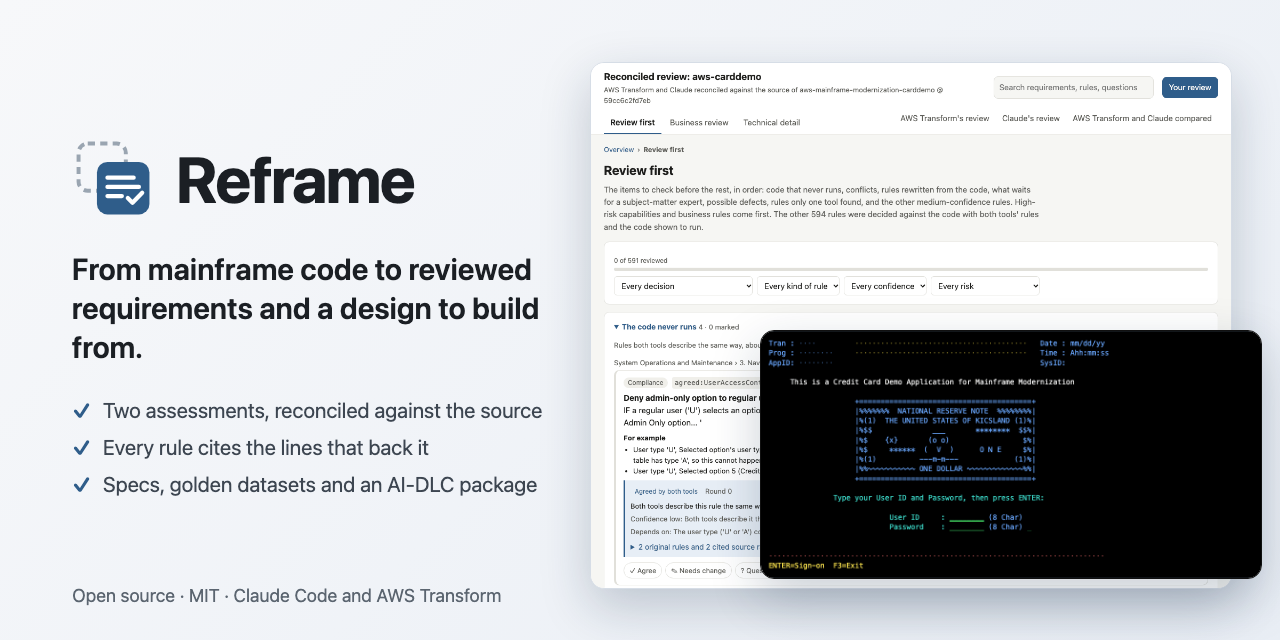
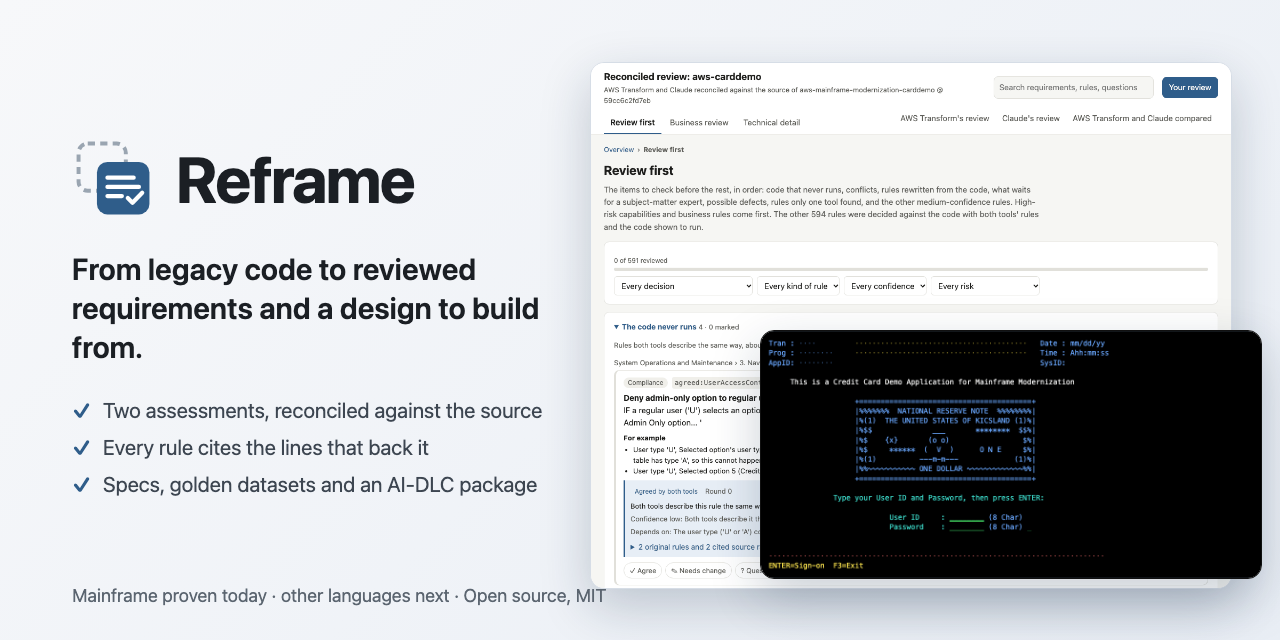
README: legacy code, with the mainframe proven today and other languages next
Reframe's direction is any legacy codebase (the 1.1 specification,
docs/any-legacy.md), while 1.0 is built and proven on the mainframe. The
front page now says both, and claims nothing not built:

- the tagline speaks of legacy source, with a line under it: built and
  proven on mainframe COBOL and CICS today, other languages with Claude
  next;
- a table under the introduction: mainframe (two assessments, exact
  readers, proven on CardDemo) and other languages (Claude only, a general
  reader, specified for 1.1), linked to the specification;
- the roadmap links the specification;
- pyproject.toml's description matches: legacy source, mainframe first;
- the social preview card says legacy code, with "mainframe proven today,
  other languages next".

Prepared with AI assistance.

Changed region(s): [[0.0625, 0.9062, 0.4688, 0.9688], [0.0938, 0.4062, 0.4375, 0.4375]]

diff --git a/README.md b/README.md
@@ -8,7 +8,9 @@
 <h1 align="center">Reframe</h1>
 
 <p align="center">
-  <b>From mainframe source to reviewed requirements, business rules and a design to build from.</b>
+  <b>From legacy source to reviewed requirements, business rules and a design to build from.</b>
+  <br />
+  <sub>Built and proven on mainframe COBOL and CICS today. Other languages, with Claude, come next.</sub>
 </p>
 
 <p align="center">
@@ -39,7 +41,12 @@
   <img src="docs/images/readme/review-light.png" alt="The reconciled review of AWS's CardDemo: rules to check first, each with its confidence, worked examples, the evidence behind it, and Agree, Needs change and Question marks for reviewers" width="100%" />
 </picture>
 
-Reframe reads a COBOL and CICS codebase and tells you, in plain words a business can review, what it does. It assesses the code with Claude's [code-modernization plugin](https://github.com/anthropics/claude-plugins-official/tree/main/plugins/code-modernization), and with AWS Transform as well if you have it, then checks every business rule against the source code itself. From that it designs the modern application, down to a package an AI coding tool can build from.
+Reframe reads a legacy codebase and tells you, in plain words a business can review, what it does. It assesses the code with Claude's [code-modernization plugin](https://github.com/anthropics/claude-plugins-official/tree/main/plugins/code-modernization), and with AWS Transform as well if you have it, then checks every business rule against the source code itself. From that it designs the modern application, down to a package an AI coding tool can build from.
+
+| Codebase | Assessments | Screens, flows and data | Status |
+|---|---|---|---|
+| **Mainframe:** COBOL, JCL, CICS, BMS | Claude and AWS Transform, reconciled against the code | Read exactly from the BMS maps, CICS transfers and copybooks | **Built and proven** on CardDemo (1.0) |
+| **Other languages:** Java, .NET, PHP, Perl, Python, JavaScript, C, PL/I and more | Claude, with every rule checked against the code | A general reader, each item citing its source lines | **Next:** [specified for 1.1](docs/any-legacy.md) |
 
 It is for modernization teams, architects and the business people who have to say "yes, that is what the system does" before anything is rebuilt.
 
@@ -219,7 +226,7 @@ The figures are from live runs and are recorded in [docs/acceptance.md](docs/acc
 
 ## Roadmap
 
-- **Beyond the mainframe:** any legacy codebase Claude can read (Java, .NET, PHP and more), with Claude only, and screens, flows and data contracts read for each stack (proposed for 1.1).
+- **Beyond the mainframe (1.1):** any legacy codebase Claude's plugin reads (Java, .NET, PHP and more), with Claude only, and screens, flows and data contracts read for each stack ([the specification](docs/any-legacy.md)).
 - **Proof at scale:** a codebase several times CardDemo's size, and a mainframe expert's own check of the audit.
 - **Later:** a replacement order from the specifications, real legacy outputs under GnuCOBOL, and Claude on Amazon Bedrock, live ([docs/plan.md](docs/plan.md)).
 
